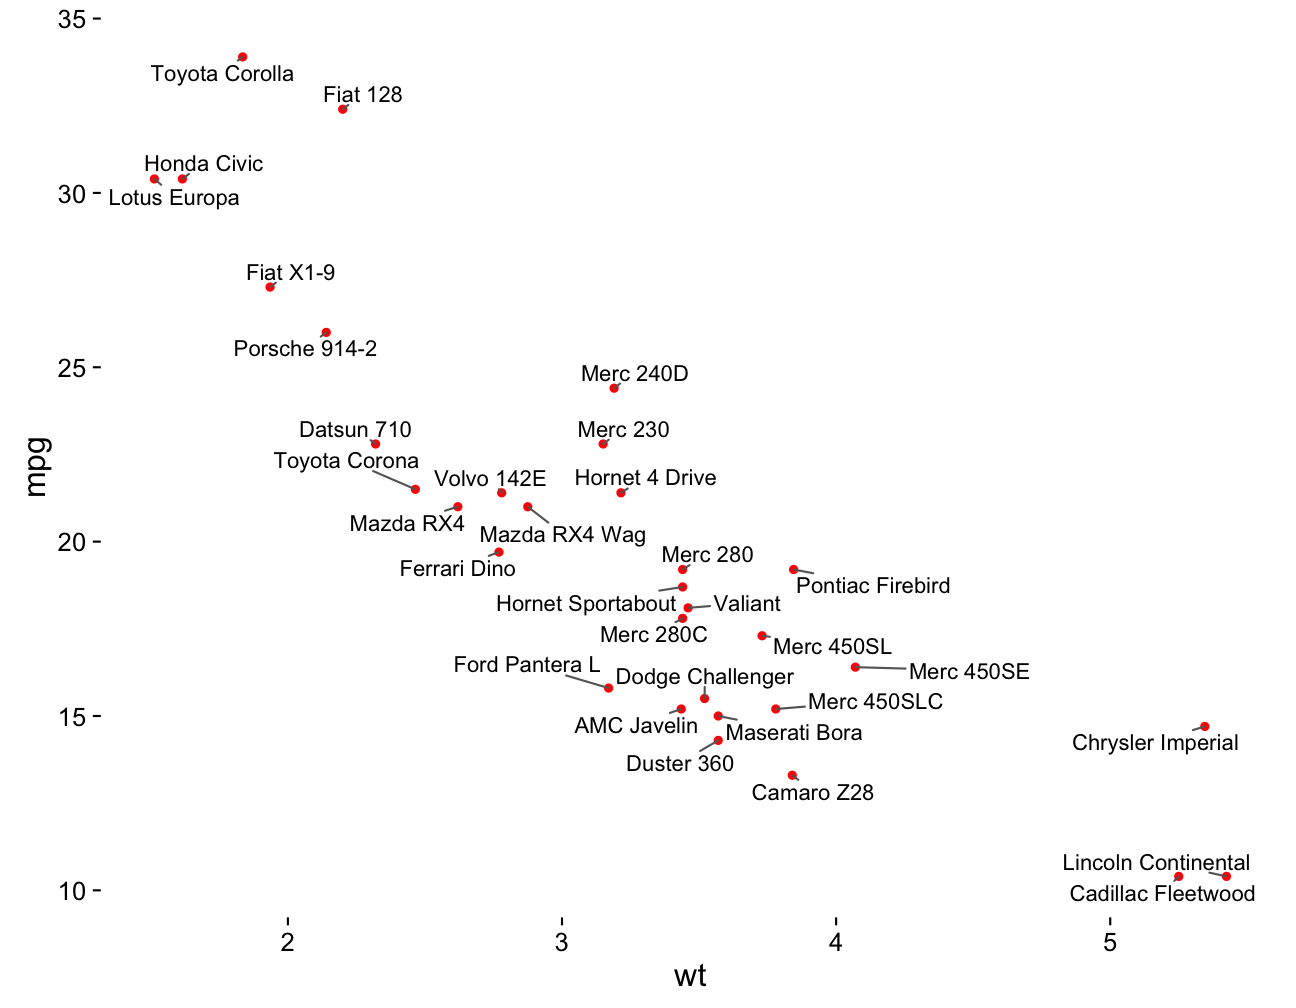
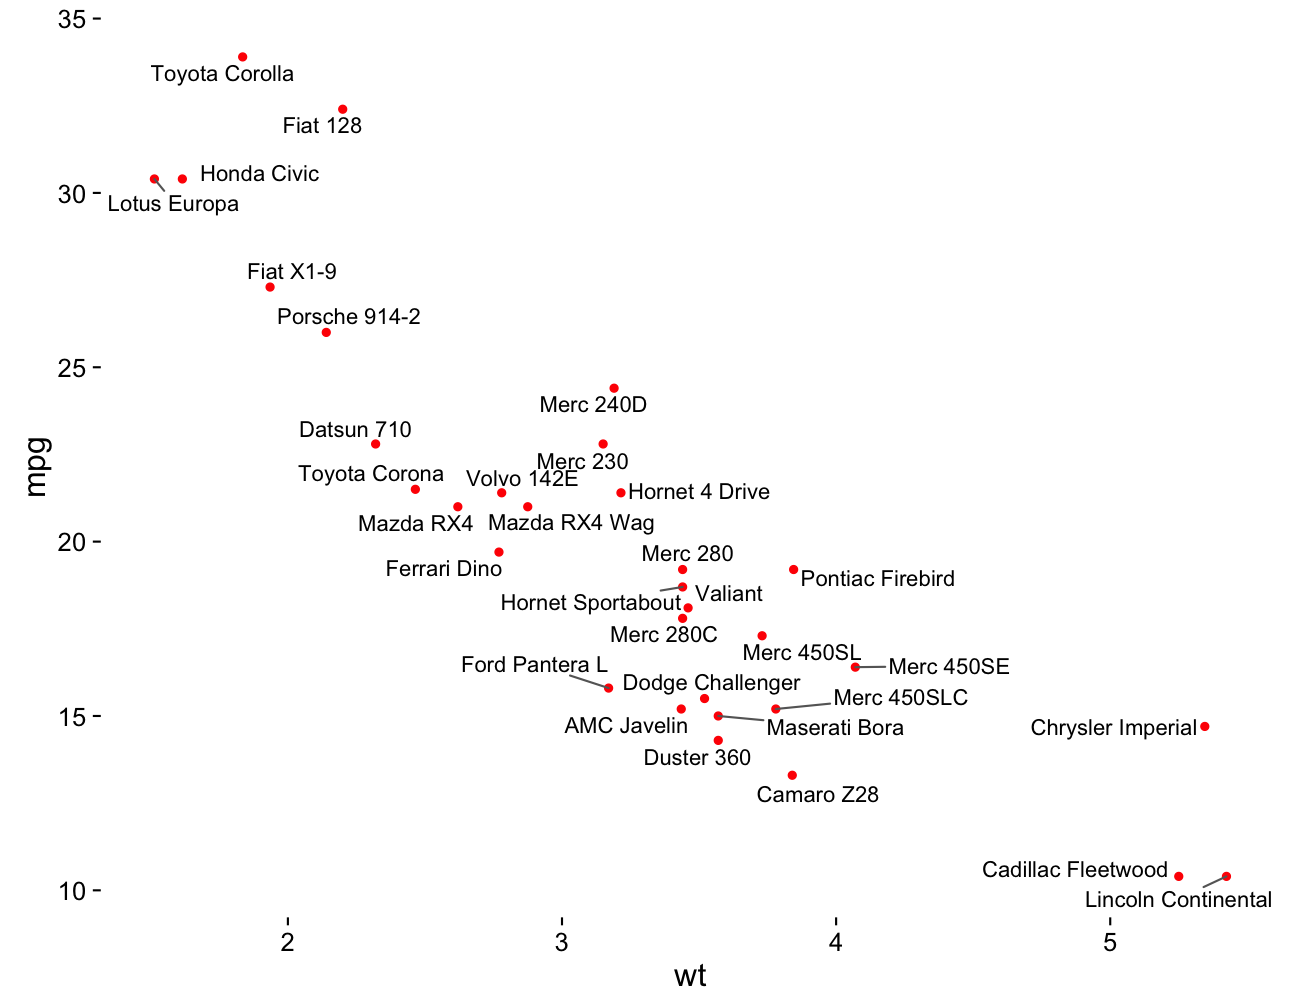
document min.segment.length

diff --git a/vignettes/ggrepel.md b/vignettes/ggrepel.md
@@ -1,7 +1,7 @@
 ---
 title: "ggrepel Usage Examples"
 author: "Kamil Slowikowski"
-date: "2016-10-04"
+date: "2016-10-06"
 output: rmarkdown::html_vignette
 vignette: >
   %\VignetteIndexEntry{ggrepel Usage Examples}
@@ -124,8 +124,8 @@ ggplot(mtcars) +
 
 <img src="https://github.com/slowkow/ggrepel/blob/master/vignettes/figures/ggrepel/geom_text_repel_options-1.png" title="plot of chunk geom_text_repel_options" alt="plot of chunk geom_text_repel_options" width="700" />
 
-You can also display a subset of text labels. They will not overlap any data
-points with labels set to the empty string `""`:
+Set some labels to the empty string `""` to hide them. The corresponding data
+points will still repel the non-empty labels.
 
 
 ```r
@@ -136,12 +136,13 @@ mtcars$label <- rownames(mtcars)
 mtcars$label[seq(1, nrow(mtcars), by = 2)] <- ""
 
 ggplot(mtcars, aes(wt, mpg)) +
-  geom_point(aes(color = factor(cyl)), size = 3) +
+  geom_point(aes(color = factor(cyl)), size = 2) +
   geom_text_repel(
     aes(
       color = factor(cyl),
       label = label
-    )
+    ),
+    nudge_y = 0.1
   ) +
   theme_bw(base_size = 16)
 ```
@@ -236,7 +237,7 @@ plot_frame <- function(n) {
 }
 
 saveGIF(
-  lapply(c(seq(0, 2000, 25)), function(i) {
+  lapply(c(seq(0, 500, 10)), function(i) {
     plot_frame(i)
   }),
   interval = 0.05,
@@ -268,7 +269,7 @@ sessionInfo()
 ## [1] stats     graphics  grDevices utils     datasets  methods   base     
 ## 
 ## other attached packages:
-## [1] ggrepel_0.6.1 ggplot2_2.1.0 knitr_1.13   
+## [1] ggrepel_0.6.2 ggplot2_2.1.0 knitr_1.13   
 ## 
 ## loaded via a namespace (and not attached):
 ##  [1] Rcpp_0.12.6      codetools_0.2-14 digest_0.6.9     grid_3.2.3      
